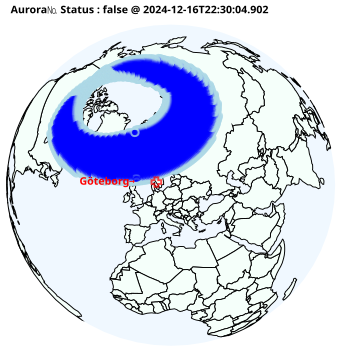
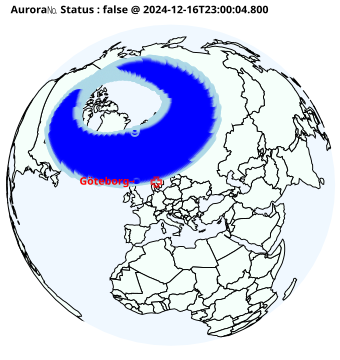
20241216230018 added aur.html

diff --git a/aur.html b/aur.html
@@ -7,6 +7,6 @@
 <body>
     <h1>Aurora Watch</h1>
     <img src="a.png" alt="Aurora Image" style="width:100%;max-width:600px;">
-    <p>Aurora Level 🌌= (2.0) was observed. (2024-12-16T22:30:04.902)</p>
+    <p>Aurora Level 🌌= (2.5) was observed. (2024-12-16T23:00:04.800)</p>
 </body>
 </html>
